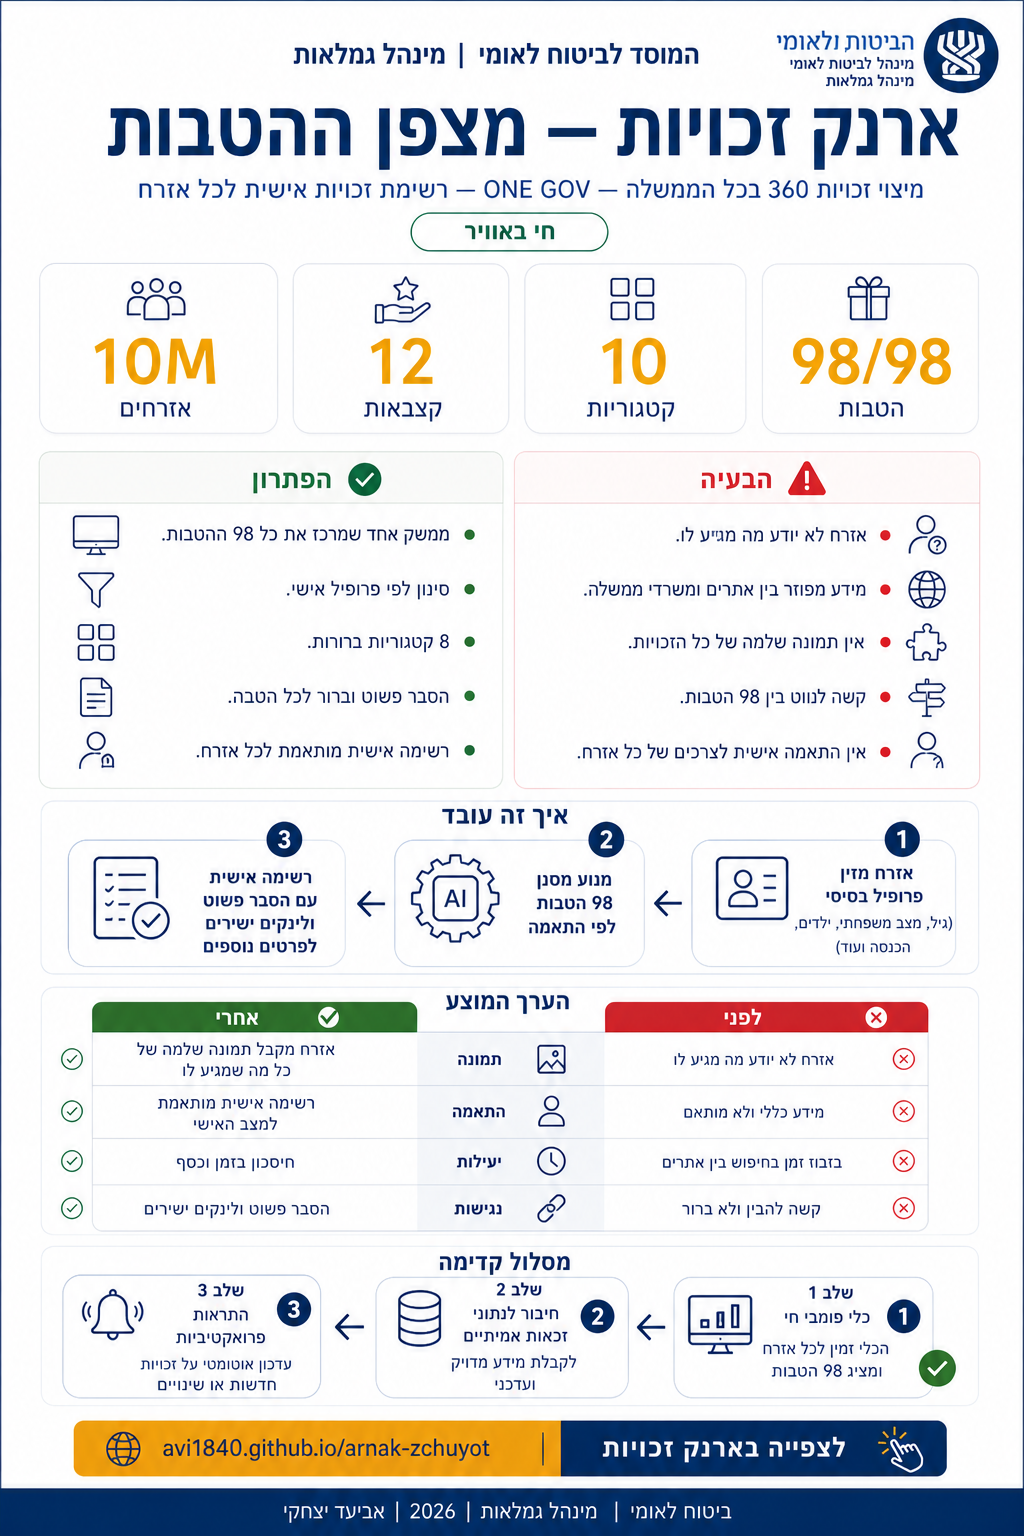
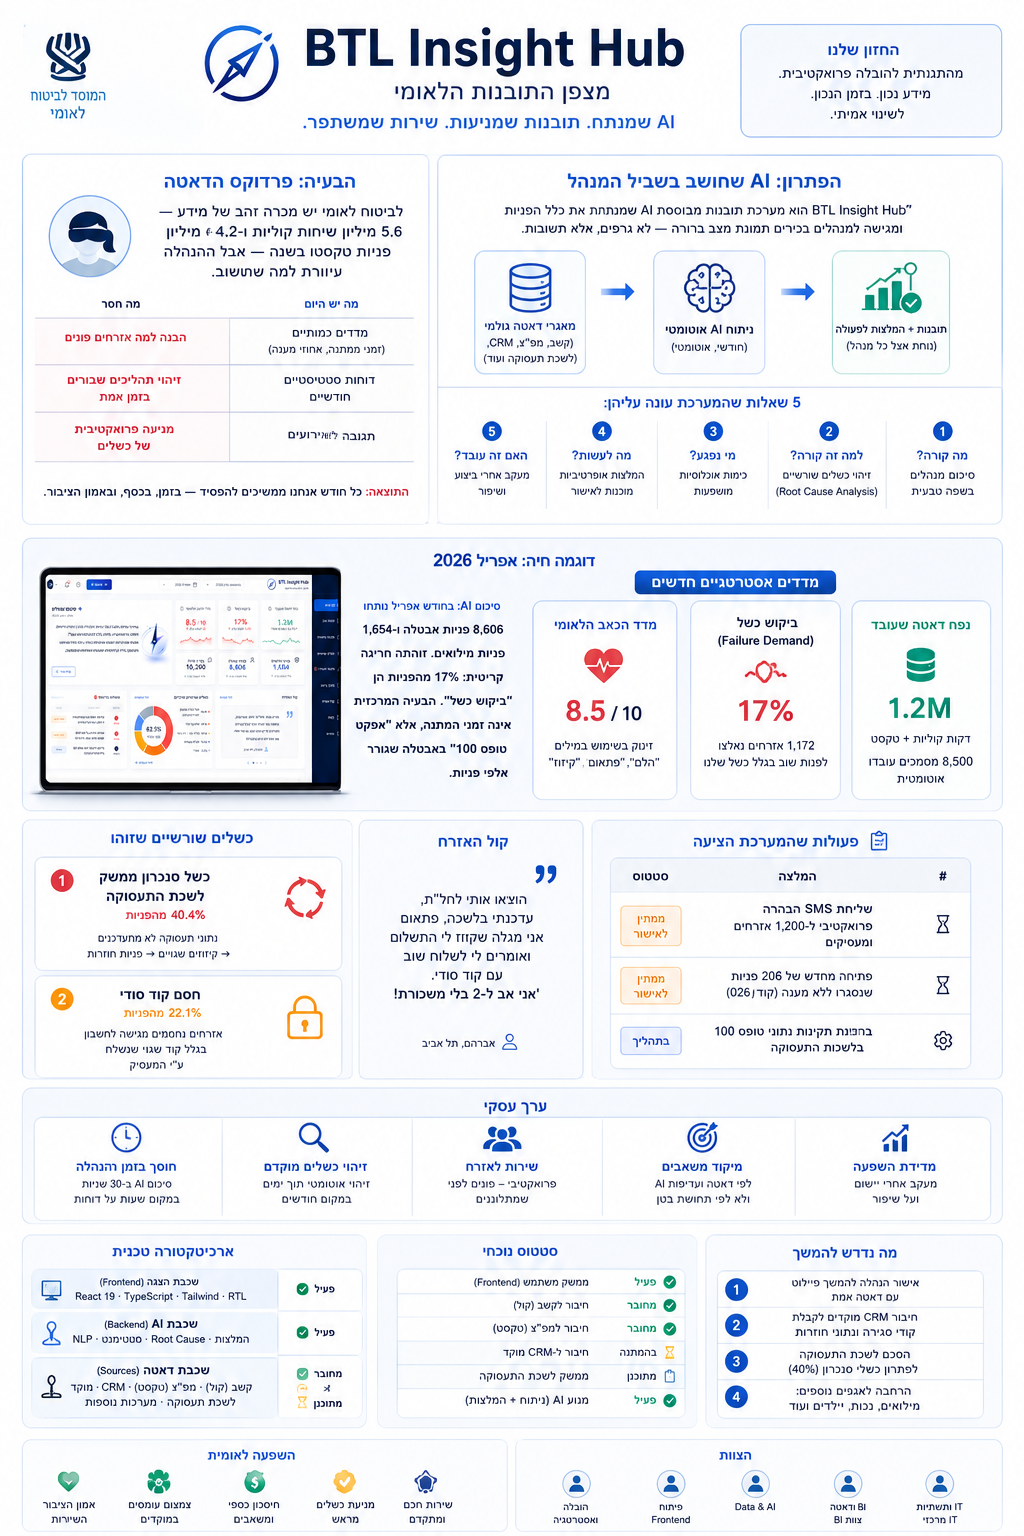
feat: add infographics for vaadot, nursing, ozer-ishi + update strategic-insight PNG

Changed region(s): [[0.0, 0.0, 1.0, 1.0], [0.3438, 0.5625, 0.375, 0.5938]]

diff --git a/html/index.html b/html/index.html
@@ -283,6 +283,7 @@ html,body{overflow-x:hidden;max-width:100vw;-webkit-text-size-adjust:100%}
         <div class="card-actions">
           <a href="https://avi1840.github.io/vaadot-refuiyot/" target="_blank" class="btn btn-live">🟢 כלי חי</a>
           <a href="vaadot-refuiyot.html" target="_blank" class="btn btn-primary">📄 One Pager</a>
+          <a href="infographics/vaadot-refuiyot.png" target="_blank" class="btn btn-secondary">📊 אינפוגרפיקה</a>
           <a href="../word/05-vaadot-refuiyot.docx" download class="btn btn-download"><span class="dl-icon">W</span> Word</a>
           <a href="https://github.com/AVI1840/vaadot-refuiyot" target="_blank" class="btn btn-secondary">💻 GitHub</a>
         </div>
@@ -354,6 +355,7 @@ html,body{overflow-x:hidden;max-width:100vw;-webkit-text-size-adjust:100%}
         <div class="card-actions">
           <a href="https://avi1840.github.io/nursing-helper/" target="_blank" class="btn btn-live">🟢 כלי חי</a>
           <a href="nursing-helper.html" target="_blank" class="btn btn-primary">📄 One Pager</a>
+          <a href="infographics/nursing-helper.png" target="_blank" class="btn btn-secondary">📊 אינפוגרפיקה</a>
           <a href="../word/08-nursing-helper.docx" download class="btn btn-download"><span class="dl-icon">W</span> Word</a>
           <a href="https://github.com/AVI1840/nursing-helper" target="_blank" class="btn btn-secondary">💻 GitHub</a>
         </div>
@@ -458,6 +460,7 @@ html,body{overflow-x:hidden;max-width:100vw;-webkit-text-size-adjust:100%}
         <div class="why-line">אייג'נט AI לליווי אזרחים באתגרי החיים — MVP ראשון באלמנות בזקנה</div>
         <div class="card-actions">
           <a href="ozer-ishi.html" target="_blank" class="btn btn-primary">📄 One Pager</a>
+          <a href="infographics/ozer-ishi.png" target="_blank" class="btn btn-secondary">📊 אינפוגרפיקה</a>
           <a href="../word/10-ozer-ishi.docx" download class="btn btn-download"><span class="dl-icon">W</span> Word</a>
         </div>
       </div>

diff --git a/index.html b/index.html
@@ -281,6 +281,7 @@ html,body{overflow-x:hidden;max-width:100vw;-webkit-text-size-adjust:100%}
         <div class="card-actions">
           <a href="https://avi1840.github.io/vaadot-refuiyot/" target="_blank" class="btn btn-live">🟢 כלי חי</a>
           <a href="html/vaadot-refuiyot.html" target="_blank" class="btn btn-primary">📄 One Pager</a>
+          <a href="html/infographics/vaadot-refuiyot.png" target="_blank" class="btn btn-secondary">📊 אינפוגרפיקה</a>
           <a href="word/05-vaadot-refuiyot.docx" download class="btn btn-download"><span class="dl-icon">W</span> Word</a>
           <a href="https://github.com/AVI1840/vaadot-refuiyot" target="_blank" class="btn btn-secondary">💻 GitHub</a>
         </div>
@@ -352,6 +353,7 @@ html,body{overflow-x:hidden;max-width:100vw;-webkit-text-size-adjust:100%}
         <div class="card-actions">
           <a href="https://avi1840.github.io/nursing-helper/" target="_blank" class="btn btn-live">🟢 כלי חי</a>
           <a href="html/nursing-helper.html" target="_blank" class="btn btn-primary">📄 One Pager</a>
+          <a href="html/infographics/nursing-helper.png" target="_blank" class="btn btn-secondary">📊 אינפוגרפיקה</a>
           <a href="word/08-nursing-helper.docx" download class="btn btn-download"><span class="dl-icon">W</span> Word</a>
           <a href="https://github.com/AVI1840/nursing-helper" target="_blank" class="btn btn-secondary">💻 GitHub</a>
         </div>
@@ -456,6 +458,7 @@ html,body{overflow-x:hidden;max-width:100vw;-webkit-text-size-adjust:100%}
         <div class="why-line">אייג'נט AI לליווי אזרחים באתגרי החיים — MVP ראשון באלמנות בזקנה</div>
         <div class="card-actions">
           <a href="html/ozer-ishi.html" target="_blank" class="btn btn-primary">📄 One Pager</a>
+          <a href="html/infographics/ozer-ishi.png" target="_blank" class="btn btn-secondary">📊 אינפוגרפיקה</a>
           <a href="word/10-ozer-ishi.docx" download class="btn btn-download"><span class="dl-icon">W</span> Word</a>
         </div>
       </div>